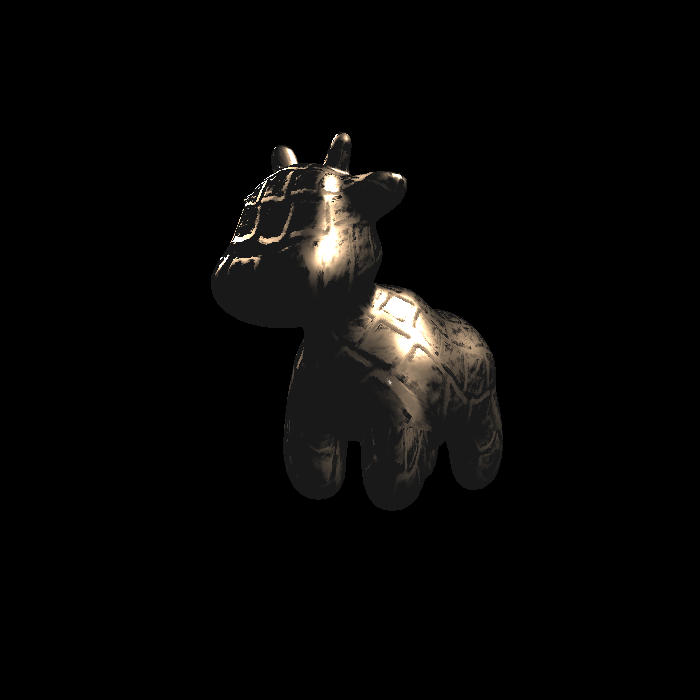
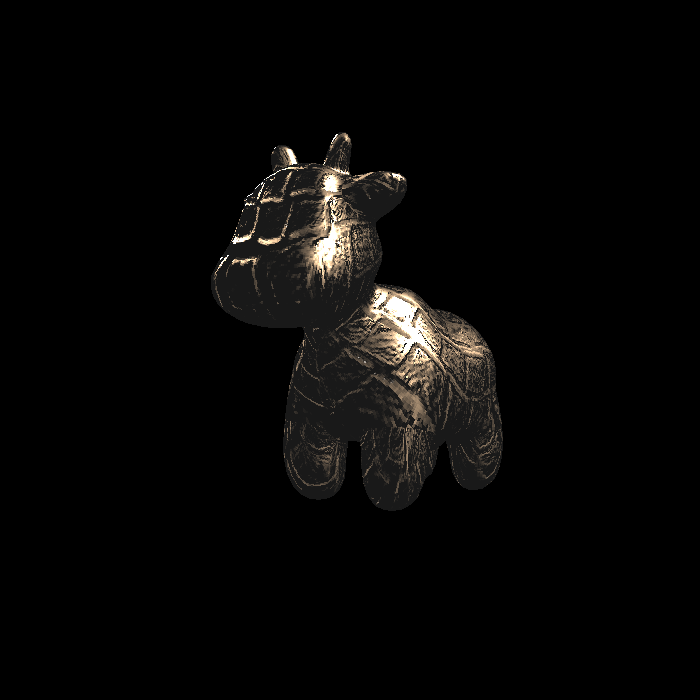
finished homework3

diff --git a/GAMES3/main.cpp b/GAMES3/main.cpp
@@ -283,14 +283,20 @@ Eigen::Vector3f displacement_fragment_shader(const fragment_shader_payload& payl
 
     float u = payload.tex_coords[0];
     float v = payload.tex_coords[1];
+
+    if (u < 0.0f) { u = 0.0f; }
+    if (v < 0.0f) { v = 0.0f; }
+    if (u > 1.0f) { u = 1.0f; }
+    if (v > 1.0f) { v = 1.0f; }
+
     float w = payload.texture->width;
     float h = payload.texture->height;
 
     float dU = kh * kn * (payload.texture->getColor(u + 1.0f / w, v).norm() - payload.texture->getColor(u, v).norm());
-    float dV = kh * kn * (payload.texture->getColor(u, v + 1.0f / h).norm() -payload.texture->getColor(u, v).norm());
+    float dV = kh * kn * (payload.texture->getColor(u, v + 1.0f / h).norm() - payload.texture->getColor(u, v).norm());
     Eigen::Vector3f ln{ -dU, -dV, 1.0f };
-    point = point + kn * n * payload.texture->getColor(u, v).norm();
-    n = (TBN * ln).normalized();
+    point += kn * n * payload.texture->getColor(u, v).norm();
+    normal = (TBN * ln).normalized();
 
     Eigen::Vector3f result_color = { 0, 0, 0 };
 
@@ -381,6 +387,12 @@ Eigen::Vector3f bump_fragment_shader(const fragment_shader_payload& payload)
 
     float u = payload.tex_coords[0];
     float v = payload.tex_coords[1];
+
+    if (u < 0.0f) { u = 0.0f; }
+    if (v < 0.0f) { v = 0.0f; }
+    if (u > 1.0f) { u = 1.0f; }
+    if (v > 1.0f) { v = 1.0f; }
+
     float w = payload.texture->width;
     float h = payload.texture->height;
 

diff --git a/GAMES3/Texture.hpp b/GAMES3/Texture.hpp
@@ -24,10 +24,6 @@ public:
 
     Eigen::Vector3f getColor(float u, float v)
     {
-        if (u < 0) { u = 0; }
-        if (v < 0) { v = 0; }
-        if (u >1) { u = 1; }
-        if (v >1) { v = 1; }
         auto u_img = u * width;
         auto v_img = (1 - v) * height;
         auto color = image_data.at<cv::Vec3b>(v_img, u_img);
